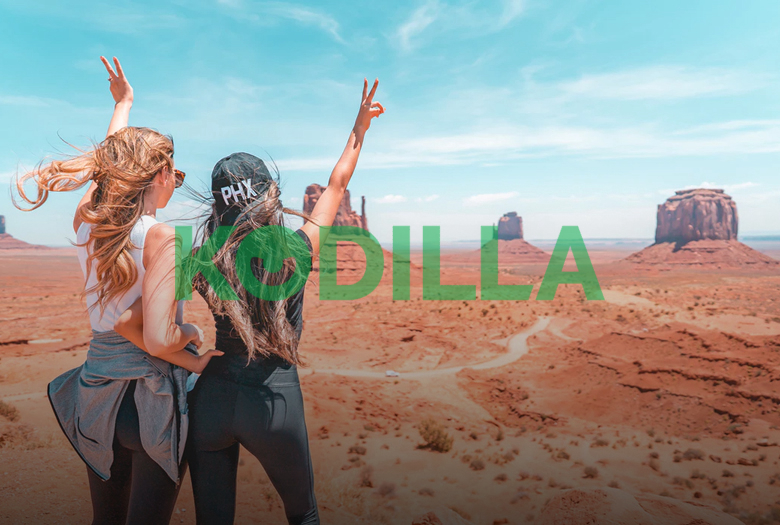
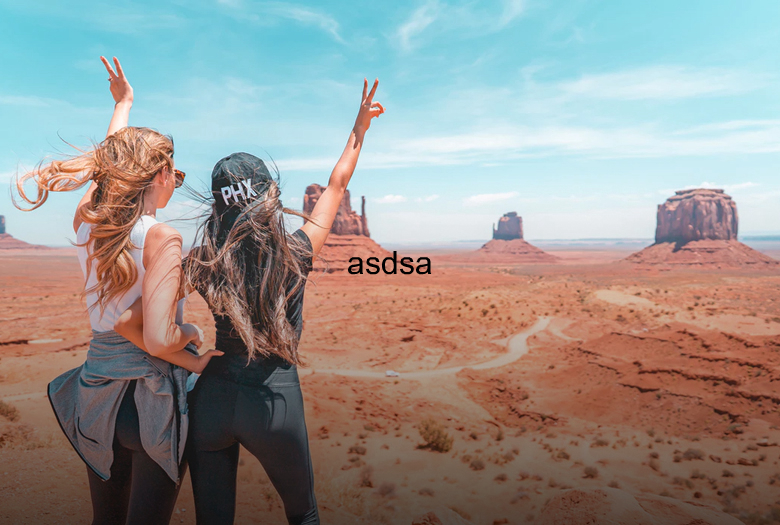
Add validation and try...catch

Changed region(s): [[0.2154, 0.4267, 0.7692, 0.579]]

diff --git a/app.js b/app.js
@@ -1,5 +1,52 @@
 const Jimp = require('jimp');
 const inquirer = require('inquirer');
+const fs = require('fs');
+
+//TextToImage
+const addTextWatermarkToImage = async function (inputFile, outputFile, text) {
+  try {
+    const image = await Jimp.read(inputFile);
+    const font = await Jimp.loadFont(Jimp.FONT_SANS_32_BLACK);
+    const textData = {
+      text,
+      alignmentX: Jimp.HORIZONTAL_ALIGN_CENTER,
+      alignmentY: Jimp.VERTICAL_ALIGN_MIDDLE,
+    };
+    image.print(font, 0, 0, textData, image.getWidth(), image.getHeight());
+    await image.quality(100).writeAsync(outputFile);
+
+    console.log('Done!');
+    startApp();
+  } catch (error) {
+    console.log(error);
+  }
+};
+
+//ImageToImage
+const addImageWatermarkToImage = async function (
+  inputFile,
+  outputFile,
+  watermarkFile,
+) {
+  try {
+    const image = await Jimp.read(inputFile);
+    const watermark = await Jimp.read(watermarkFile);
+    const x = image.getWidth() / 2 - watermark.getWidth() / 2;
+    const y = image.getHeight() / 2 - watermark.getHeight() / 2;
+
+    //composite method for joining two images
+    image.composite(watermark, x, y, {
+      mode: Jimp.BLEND_SOURCE_OVER,
+      opacitySource: 0.5,
+    });
+    await image.quality(100).writeAsync(outputFile);
+
+    console.log('Done!');
+    startApp();
+  } catch (error) {
+    console.log(error);
+  }
+};
 
 const prepareOutputFilename = (filename) => {
   const [name, ext] = filename.split('.');
@@ -44,6 +91,13 @@ const startApp = async () => {
       },
     ]);
     options.watermarkText = text.value;
+
+    // validation
+    if (!fs.existsSync(`./img/${options.inputImage}`)) {
+      console.log('Something went wrong... Try again.');
+      return;
+    }
+
     addTextWatermarkToImage(
       './img/' + options.inputImage,
       './img/' + prepareOutputFilename(options.inputImage),
@@ -59,6 +113,18 @@ const startApp = async () => {
       },
     ]);
     options.watermarkImage = image.filename;
+
+    // validation
+    if (
+      !fs.existsSync(
+        `./img/${options.inputImage}` ||
+          !fs.existsSync(`./img/${options.watermarkImage}`),
+      )
+    ) {
+      console.log('Something went wrong... Try again.');
+      return;
+    }
+
     addImageWatermarkToImage(
       './img/' + options.inputImage,
       './img/' + prepareOutputFilename(options.inputImage),
@@ -68,36 +134,3 @@ const startApp = async () => {
 };
 
 startApp();
-
-//TextToImage
-const addTextWatermarkToImage = async function (inputFile, outputFile, text) {
-  const image = await Jimp.read(inputFile);
-  const font = await Jimp.loadFont(Jimp.FONT_SANS_32_BLACK);
-  const textData = {
-    text,
-    alignmentX: Jimp.HORIZONTAL_ALIGN_CENTER,
-    alignmentY: Jimp.VERTICAL_ALIGN_MIDDLE,
-  };
-  image.print(font, 0, 0, textData, image.getWidth(), image.getHeight());
-  await image.quality(100).writeAsync(outputFile);
-};
-
-//ImageToImage
-
-const addImageWatermarkToImage = async function (
-  inputFile,
-  outputFile,
-  watermarkFile,
-) {
-  const image = await Jimp.read(inputFile);
-  const watermark = await Jimp.read(watermarkFile);
-  const x = image.getWidth() / 2 - watermark.getWidth() / 2;
-  const y = image.getHeight() / 2 - watermark.getHeight() / 2;
-
-  //composite method for joining two images
-  image.composite(watermark, x, y, {
-    mode: Jimp.BLEND_SOURCE_OVER,
-    opacitySource: 0.5,
-  });
-  await image.quality(100).writeAsync(outputFile);
-};
